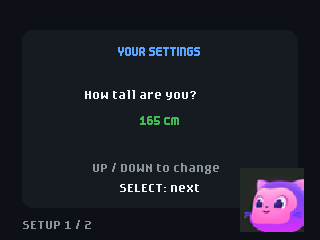
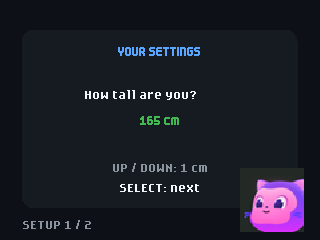
Adjust hydration interval in 10-step increments
Keep height changes at 1 cm, show units in setup hints, and refresh the controls documentation and screenshots.

Changed region(s): [[0.2812, 0.6708, 0.6875, 0.7292]]

diff --git a/badge/apps/hydrate_yourself/__init__.py b/badge/apps/hydrate_yourself/__init__.py
@@ -324,7 +324,9 @@ def draw_setup(height_screen):
     draw_text(value, (screen.width - width) // 2, 112, ACCENT)
     screen.font = font.nope
 
-    draw_text("UP / DOWN to change", 92, 161, MUTED)
+    hint = "UP / DOWN: 1 cm" if height_screen else "UP / DOWN: 10 steps"
+    width = screen.measure_text(hint)[0]
+    draw_text(hint, (screen.width - width) // 2, 161, MUTED)
     if height_screen:
         draw_text("SELECT: next", 119, 181, TEXT)
     else:
@@ -378,11 +380,11 @@ def update():
         else:
             if badge.pressed(BUTTON_UP):
                 setup_hydration_interval = min(
-                    MAX_HYDRATION_INTERVAL, setup_hydration_interval + 100
+                    MAX_HYDRATION_INTERVAL, setup_hydration_interval + 10
                 )
             elif badge.pressed(BUTTON_DOWN):
                 setup_hydration_interval = max(
-                    MIN_HYDRATION_INTERVAL, setup_hydration_interval - 100
+                    MIN_HYDRATION_INTERVAL, setup_hydration_interval - 10
                 )
             if badge.pressed(BUTTON_BACK):
                 setup_page = 1

diff --git a/badge/apps/hydrate_yourself/docs/TESTING.md b/badge/apps/hydrate_yourself/docs/TESTING.md
@@ -25,6 +25,8 @@ simulator runtime may clear its virtual filesystem.
 | Check | Expected result |
 | --- | --- |
 | First launch | Height setup appears, followed by reminder interval setup |
+| One UP, then DOWN in height setup | Height changes by +1 cm, then -1 cm |
+| One UP, then DOWN in reminder setup | Interval changes by +10 steps, then -10 steps |
 | UP/DOWN at limits | Height stays within 100-220 cm; interval within 100-5,000 |
 | SELECT and BACK in setup | Values can be edited, saved, and reopened |
 | Normal reload after save | Settings, steps, skips, and history are restored |

diff --git a/badge/apps/hydrate_yourself/README.md b/badge/apps/hydrate_yourself/README.md
@@ -23,7 +23,7 @@ to the step counter. This is a playful visual, not a medical assessment.
 | Screen | Controls |
 | --- | --- |
 | Height setup | UP/DOWN: change height by 1 cm (100-220 cm); SELECT: next |
-| Reminder setup | UP/DOWN: change interval by 100 steps (100-5,000); BACK: height; SELECT: save |
+| Reminder setup | UP/DOWN: change interval by 10 steps (100-5,000); BACK: height; SELECT: save |
 | Step counter | BACK: settings; HOME: badge menu |
 | Hydration reminder | SELECT: log a drink and reset water; BACK: skip |
 
